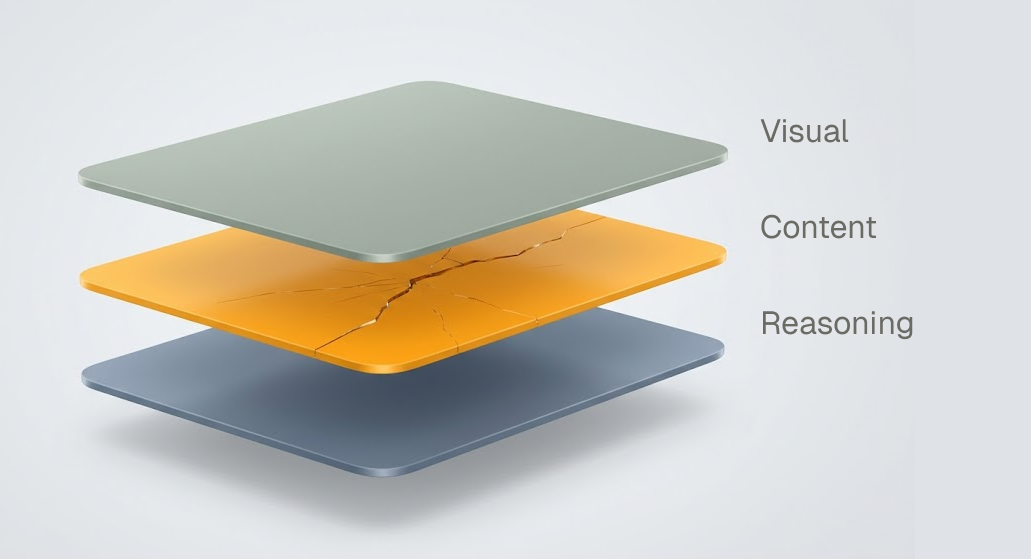
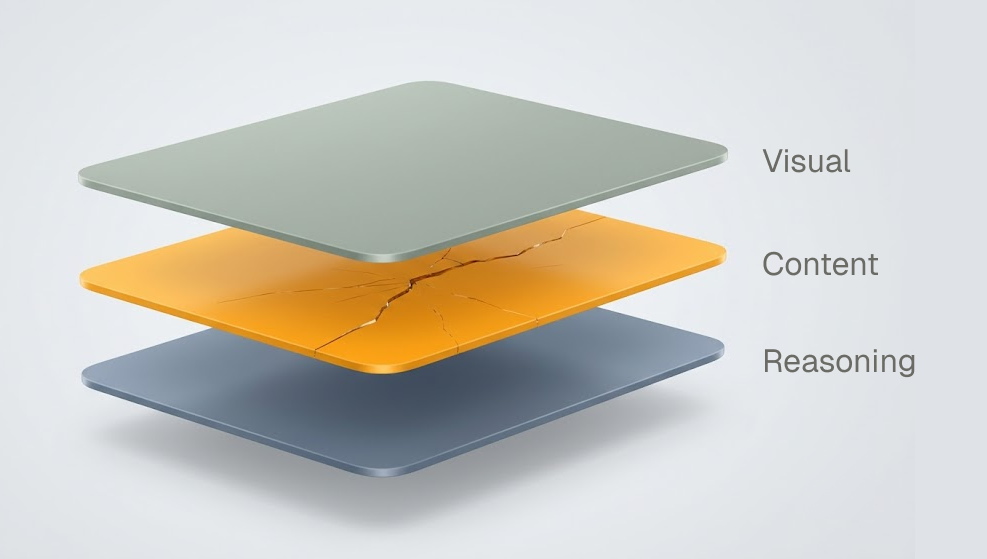
Constrain all case-study figures to body-copy width, remove image borders
Figures no longer bleed wider than the article's text column, and
images render without the hairline border frame.

diff --git a/src/routes/case-studies/$slug.tsx b/src/routes/case-studies/$slug.tsx
@@ -203,7 +203,7 @@ function Figure({
   srcs?: string[];
 }) {
   return (
-    <figure className="mt-2 sm:-mx-10 sm:w-[calc(100%+5rem)] lg:-mx-16 lg:w-[calc(100%+8rem)]">
+    <figure className="mt-2">
       {srcs && srcs.length > 0 ? (
         <div
           className={
@@ -220,7 +220,7 @@ function Figure({
               rel="noreferrer"
               className="block cursor-zoom-in"
             >
-              <img src={src} alt={label} className="w-full border border-hairline" />
+              <img src={src} alt={label} className="w-full" />
             </a>
           ))}
         </div>
